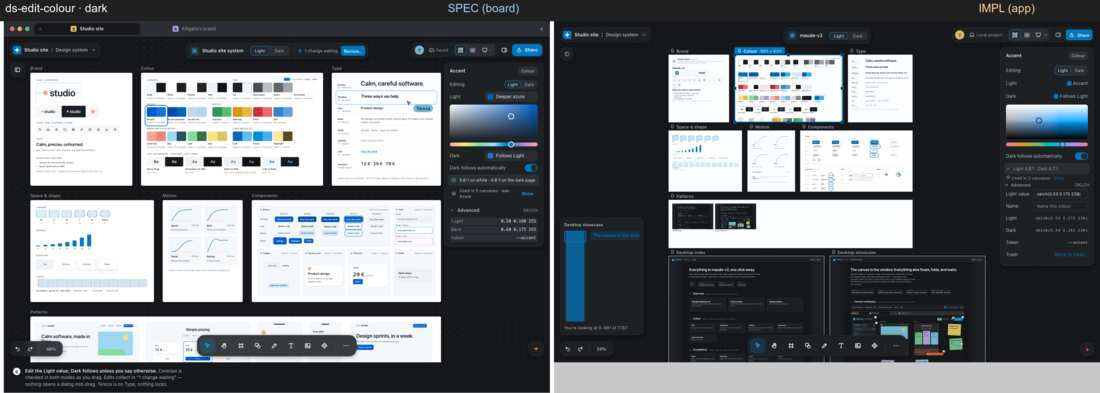
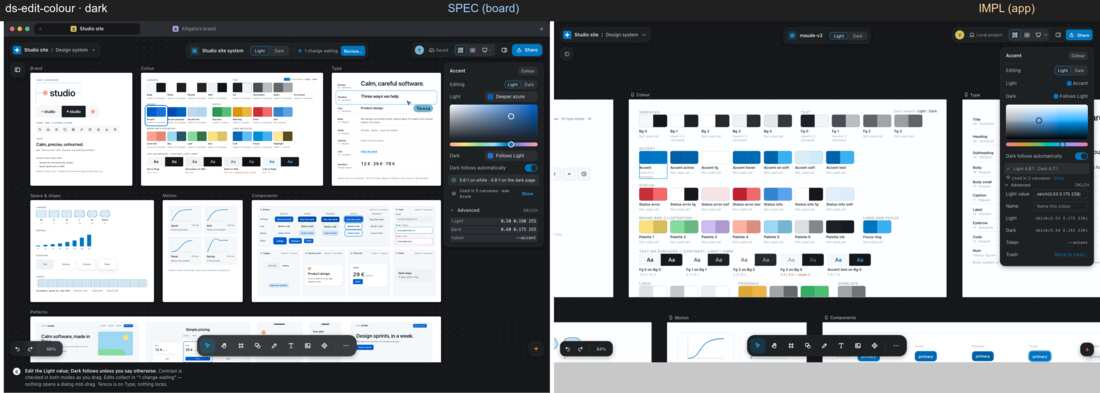
p8-c7-ds2: 13 evidence — re-shot ds-edit-colour, ds-edge-contrast, ds-multi-menu (light + dark); fix file + INDEX

Changed region(s): [[0.4945, 0.0916, 1.0, 0.9466]]

diff --git a/.ai/plans/notes/v2-evidence/phase8-fidelity/13-design-system/fix-c7-ds.md b/.ai/plans/notes/v2-evidence/phase8-fidelity/13-design-system/fix-c7-ds.md
@@ -31,3 +31,26 @@ Nothing below is marked matched; the lead's critic judges. Re-shot (impl, light 
 6. **Advanced** (ds-advanced): used-by row, CSS | JSON toggle, token block, Files tree, check card — Advanced is collapsed in the shot; open it and run Check in the harness.
 7. **Hero outside the Brand frame**: the board's header is page chrome around the artboards; the product draws it inside Brand (a canvas artboard body clips, and a hero artboard would change every converted board).
 8. Review sub-lines "14 places — buttons, links, cards" and the left-out row with its update dot (data: the fixture's usage has few places).
+
+# Round 7 continuation — p8-c7-ds2 (Opus; budget-capped)
+
+## Done (product)
+
+| what | ids | proof (red → green) |
+|---|---|---|
+| **Rename… a system, end to end.** `POST /_api/ds/rename` (`routes/ds.ts` op + table row, main origin, `readOnly: refused`; Can edit on the whole project — viewer / commenter 403, a canvas-scoped grant gets the no-such-system 404) writes `config.json` `designSystems[].label` atomically (`ds/rename.ts`); canvases pin the system by its id, so nothing else moves. `ds.rename` registry row + agent path `maude design ds rename <ds> <new name>` (`--reset` = show the id again), writer-registry file-plane row, ACL / role classes, hub studio-manifest edit row, agent-parity case, regen (`gen-actions`, plugin `system.md`). | ds-multi-menu | `ds-rename.test.ts` (red: no route / unknown sub-verb → green), `ds-routes-roles`, `ds-agent-parity`, `access-*`, `studio-manifest.test.mjs` |
+| **A system's menu per the board** — Open · Use for new canvases · Switch… · (Preview in…) · Rename…; "Check the system" left the menu (Advanced button + ⌘K keep it). Rename… turns the pinned row's name into a field (↵ renames, esc keeps, empty / > 64 / a name another system shows is refused in place); the toast carries Undo (the previous label, same writer). | ds-multi-menu | `v2-ds-pinned-render.test.tsx` (red on HEAD's menu → green; revert-checked) |
+| **A swatch / master selected on the Design system canvas is itself** — `hoverTargetToSelection` named a board token (no `data-cd-id`) by its artboard's selector, so the eight artboard handles + size tag drew and Delete / ⌘C saw a whole-artboard pick. Now the selector is the section-scoped `data-ds-token` / `data-ds-master` and the selection carries no artboard: the selection ring sits on the swatch. | ds-edit-colour, ds-edge-contrast | `p8-c7-ds2-token-select.test.ts` (red → green) |
+
+## Harness
+
+- `s13.mjs` `frameColour()`: zoom to the Colour section (`view.zoom-to-artboard ds-colour`) and one step out before selecting the swatch (ds-edit-colour, ds-edge-contrast) — the board frames the swatch, not the 29 % / 9 % whole board.
+- `s13.mjs` ds-multi-menu: the menu is opened on the system that is NOT the default (the board's "Use for new canvases · now …"), not on the last row.
+- `chain-c7ds2.sh`: groups a, e, f light + dark; only the three ids above are copied into the pairs.
+
+## Open (by priority)
+
+1. **Preview in… in the multi-system menu** — the board's ds-multi-menu draws no Preview row, but it is the only door to the preview in a project with several systems (ds-many-switch draws the preview as the row's own menu in a one-system project). Kept; lead call needed (drop it / keep it).
+2. **Contrast line words** (ds-edit-colour): board "5.6:1 on white · 4.8:1 on the dark page"; product "Light 4.8:1 · Dark 4.7:1" (`client/v2/ds/contrast.js` pass line). Fail line (ds-edge-contrast) names every short surface in both modes; the board names the two surfaces in the mode being edited, plus a "Role · Text on green — hints" row.
+3. **Selection ring weight** — the generic halo is 1.5 px, tight; the board's ring is 2 px at a 4 px offset (polish).
+4. Reach view (ds-edit-reach), convert sheet section map + multi-folder sheet (ds-edge-migrate, ds-multi-migrate), "Falls short in N canvases · Show" (ds-edge-contrast), Advanced (used-by row, token block, Files tree, check card) — untouched this round; see the list above.

diff --git a/.ai/plans/notes/v2-evidence/phase8-fidelity/13-design-system/INDEX.md b/.ai/plans/notes/v2-evidence/phase8-fidelity/13-design-system/INDEX.md
@@ -393,3 +393,16 @@ Re-shot 56 of 60 pairs; 4 unreachable. Supersedes every earlier "after" / "FINAL
 ## After (round 7, p8-c7-ds) — IMPL re-shot on the p8-c7-ds tip
 
 Re-shot light + dark (pairs overwritten, harness `.scr/chain-c7.sh` = `_d4-harness-g5` + the c7 patches; nothing judged): ds-where-studio, ds-where-gator, ds-board-studio / -dark / -gator (the board crops now draw "Used in N canvases" under every swatch — the usage index is built soon after boot), ds-edit-colour, ds-edit-reach, ds-edit-review (real canvas pictures, old → new colour words), ds-edit-master (before | after corners pair), ds-edit-instance (a real component instance; the "Update available" block with Update · Detach), ds-truth-outside / -conflict (the waiting review is the whole inspector place; sides named in words, never raw oklch), ds-multi-panel ("Design systems · 2 in use", amber "Made before the schema" dot, "Uses <system>" door — new lane `s13p.mjs`), ds-multi-menu, ds-multi-switch (the canvases follow a system now: Folder scope, ticked rows, "Switch 4 canvases", AI restyles toggle), ds-multi-migrate, ds-many-switch, ds-edge-contrast, ds-edge-trash, ds-edge-migrate, ds-advanced. Not re-shot: ds-make-* / ds-many-library / ds-many-linked (unreachable), ds-edge-suggest, ds-multi-schema (unchanged). Details: `fix-c7-ds.md`.
+
+## After (round 7 continuation, p8-c7-ds2) — IMPL re-shot on the p8-c7-ds2 tip
+
+| id | theme | impl | note |
+|---|---|---|---|
+| `ds-edit-colour` | light | re-shot | the swatch carries the selection ring (no Colour artboard handles / size tag); framed on the Colour section |
+| `ds-edit-colour` | dark | re-shot | same |
+| `ds-edge-contrast` | light | re-shot | the swatch carries the selection ring; framed on the Colour section |
+| `ds-edge-contrast` | dark | re-shot | same |
+| `ds-multi-menu` | light | re-shot | menu on the non-default system: Open · Use for new canvases (now …) · Switch… · Preview in… · Rename…; no Check the system |
+| `ds-multi-menu` | dark | re-shot | same |
+
+Harness `.scr/chain-c7ds2.sh` + `chain-c7ds2b.sh` (the round-7 harness + `frameColour()` and the non-default menu row). Nothing judged. Details: `fix-c7-ds.md` § Round 7 continuation.
